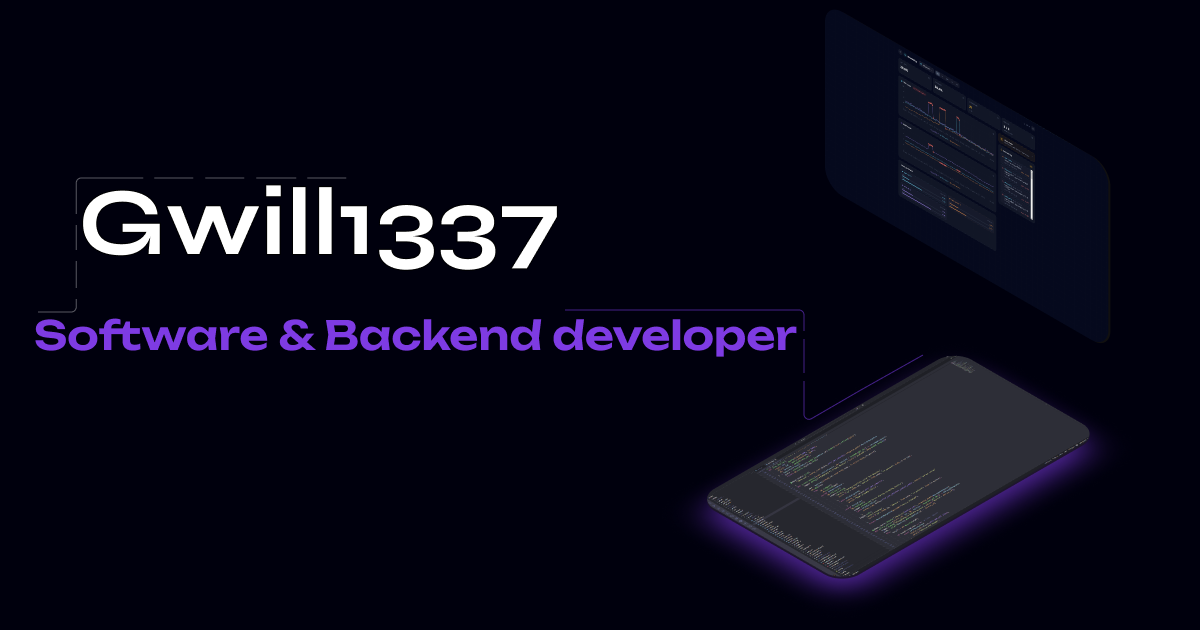
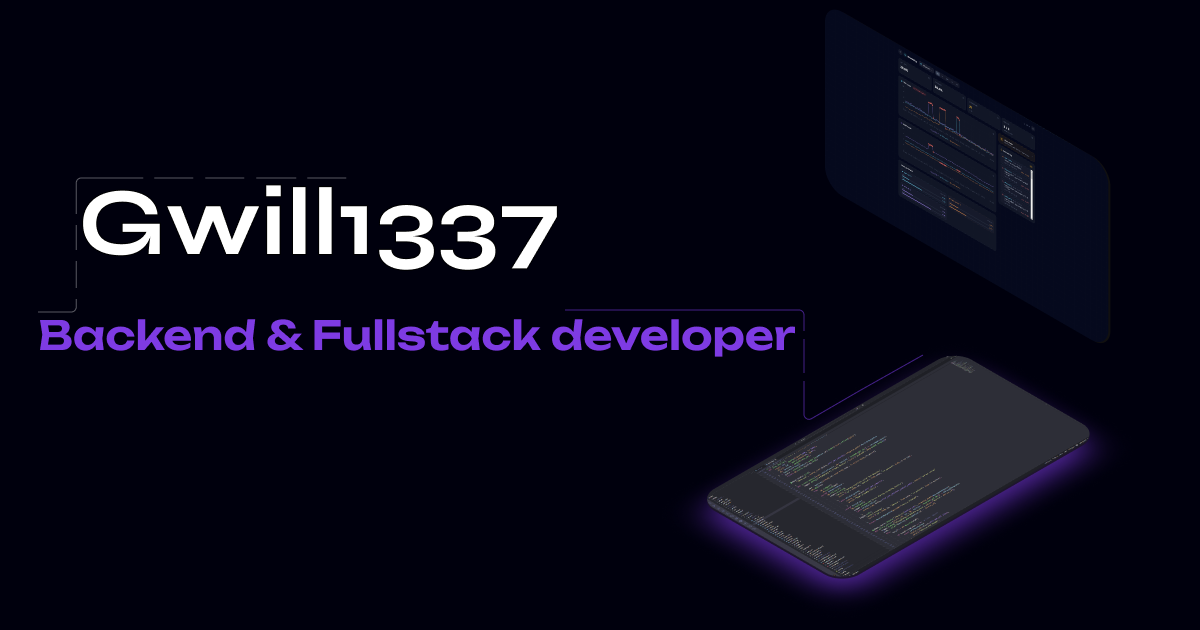
update

Changed region(s): [[0.0308, 0.4825, 0.6783, 0.573]]

diff --git a/components/Header.tsx b/components/Header.tsx
@@ -29,6 +29,33 @@ export function Header() {
         return () => window.removeEventListener("keydown", onKey);
     }, []);
 
+    const handleScroll = (e: React.MouseEvent<HTMLAnchorElement>, href: string) => {
+        if (href.startsWith("#")) {
+            e.preventDefault();
+            const targetId = href.replace("#", "");
+            const element = document.getElementById(targetId);
+
+            if (element) {
+                const isMobile = window.innerWidth < 768;
+                const isTall = element.clientHeight > window.innerHeight * 0.8;
+
+                if (isMobile || isTall) {
+                    element.scrollIntoView({
+                        behavior: "smooth",
+                        block: "start",
+                    });
+                } else {
+                    element.scrollIntoView({
+                        behavior: "smooth",
+                        block: "center",
+                    });
+                }
+
+                window.history.pushState(null, "", href)
+            }
+        }
+    };
+
     return (
         <header className="py-1 sticky top-0 z-50 w-full bg-background/40 backdrop-blur-md shadow-md">
             <div className="flex items-center py-1">
@@ -41,6 +68,7 @@ export function Header() {
                             <a
                                 key={link.href}
                                 href={link.href}
+                                onClick={(e) => handleScroll(e, link.href)}
                                 className="px-3 py-1.5 rounded text-sm font-medium text-foreground hover:text-primary hover:bg-black/10 dark:hover:bg-white/10 transition"
                             >
                                 {link.label}
@@ -83,7 +111,10 @@ export function Header() {
                                 <a
                                     key={link.href}
                                     href={link.href}
-                                    onClick={() => setOpen(false)}
+                                    onClick={(e) => {
+                                        setOpen(false);
+                                        handleScroll(e, link.href);
+                                    }}
                                     className="w-full px-3 py-1.5 rounded-lg text-sm font-medium text-foreground hover:text-primary hover:bg-black/10 dark:hover:bg-white/10 transition"
                                 >
                                     {link.label}

diff --git a/app/layout.tsx b/app/layout.tsx
@@ -27,8 +27,8 @@ const geistMono = Geist_Mono({
 });
 
 export const metadata: Metadata = {
-  title: "Gwill1337 — Software, Backend & Fullstack Developer",
-  description: "Portfolio of Gwill1337: backend and fullstack developer with networking background. Creator of Severus (P2P encrypted messenger) and MONA (self-hosted monitoring with ML).",
+  title: "Gwill1337 — Backend & Fullstack Developer",
+  description: "Portfolio of Gwill1337: backend and fullstack developer. Creator of Severus (P2P encrypted messenger) and MONA (self-hosted monitoring with ML).",
   metadataBase: new URL("https://gwill1337.vercel.app"),
   openGraph: {
     title: "Gwill1337 — Portfolio",
@@ -62,7 +62,7 @@ export default function RootLayout({ children }: LayoutProps<"/">) {
               "@context": "https://schema.org",
               "@type": "Person",
               name: "Gwill1337",
-              jobTitle: "Software, Backend & Fullstack Developer",
+              jobTitle: "Backend & Fullstack Developer",
               url: "https://gwill1337.vercel.app",
               sameAs: ["https://github.com/gwill1337"],
             }),

diff --git a/components/Hero.tsx b/components/Hero.tsx
@@ -14,11 +14,11 @@ export function Hero() {
                     className="font-semibold text-foreground text-xl sm:text-2xl pt-2 max-w-3xl w-full text-center animate-fade-in"
                     style={{ animationDelay: "0.4s"}}
                 >
-                    Software & Backend enthusiast. </h2>
-                <p className="font-semibold text-center text-xs sm:text-sm w-10/12 sm:w-3/4 animate-fade-in"
+                    Backend & Fullstack developer. </h2>
+                <p className="font-medium text-center text-xs sm:text-sm w-10/12 sm:w-3/4 animate-fade-in"
                 style={{ animationDelay: "0.5s"}}
                 >
-                    And creator of projects such as  "MONA" — the local monitoring service with machine learning and "Severus" — the p2p messenger.
+                    Сreator of projects such as  "MONA" — the local monitoring service with machine learning and "Severus" — the p2p messenger.
                 </p>
             </div>
         </div>

diff --git a/components/SkillsSection.tsx b/components/SkillsSection.tsx
@@ -37,7 +37,7 @@ const skills: ISkillCart[] = [
     { name: "CI/CD", type: ["tools"], color: "#2da44e" },
     { name: "Terraform", type: ["infrastructure"], color: "#844fba" },
     { name: "Kubernetes", type: ["infrastructure"], color: "#326ce5" },
-    { name: "Figma", type: ["tools"], color: "#f24e1e" },
+    // { name: "Figma", type: ["tools"], color: "#f24e1e" },
     { name: "Vercel", type: ["tools"], color: "#111111" },
     { name: "Render", type: ["infrastructure"], color: "#46e3b7" },
     // { name: "VS code", type: ["tools"], color: "#007acc" },
